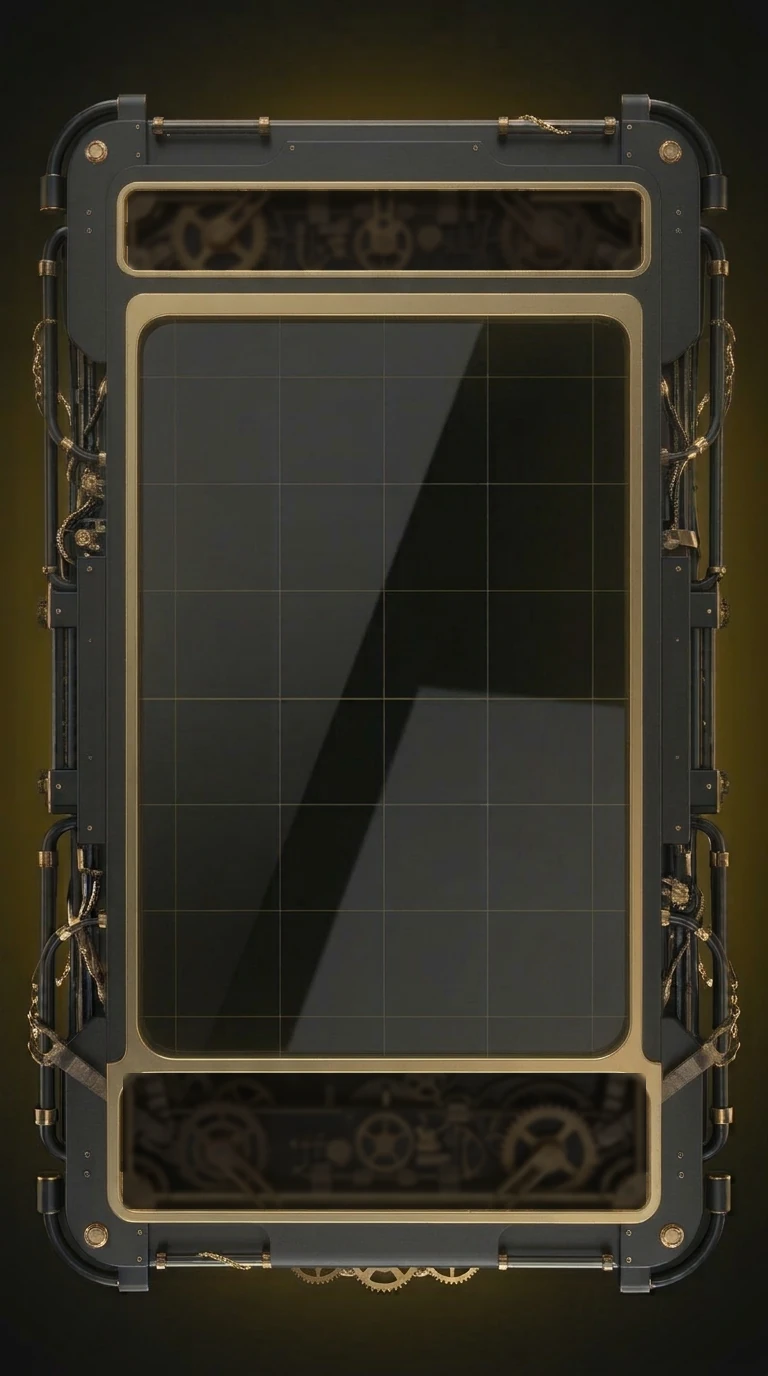
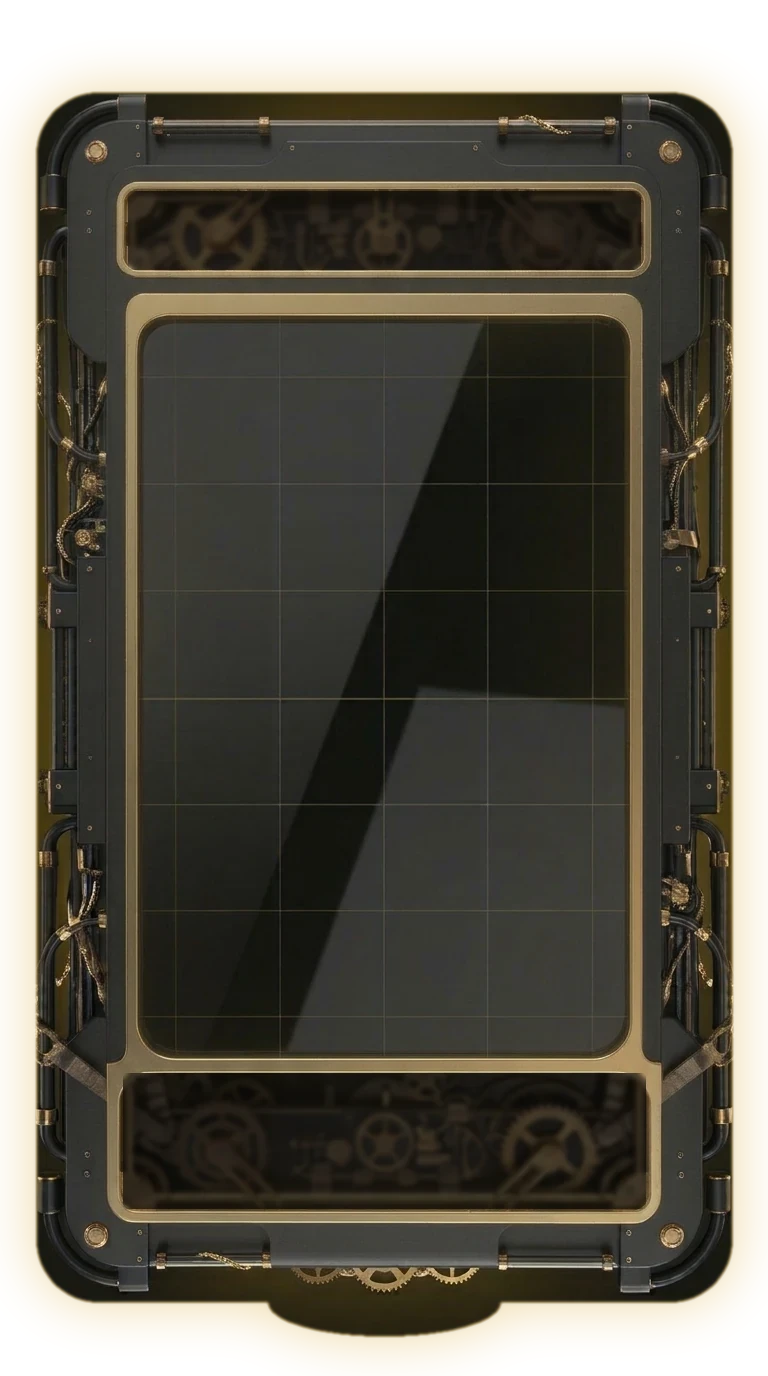
Kevin Pong: pozadí hry na výběr – tma (dosavadní) nebo 6 obrázků od uživatele (Gemini, kreslený styl): noční město, západ slunce, kouzelný les, vesmír, polární záře, ganja údolí (kevin/pong/pozadi-*.webp + mini náhledy). Výběr v menu hry (sekce POZADÍ, kulaté náhledy, localStorage kevinPongBg, texty

Changed region(s): [[0.0, 0.0, 1.0, 1.0]]

diff --git a/src/main/webapp/js/kevin-pong.js b/src/main/webapp/js/kevin-pong.js
@@ -14,6 +14,9 @@
 // Hlášky a nápisy jdou z reproduktorů na bocích stroje jako z komiksu: nápisy odstřelu (PERFEKTNÍ ODSTŘEL…)
 // vyletí z levého jako zubatá „výbuchová“ bublina, Kevinovy hlášky z pravého jako mluvicí bublina. Kde je
 // vedle stroje volno (PC), letí ven ze stroje, jinak přes kraj stroje dovnitř.
+// Pozadí hry: tma nebo jeden ze 6 obrázků (město, západ slunce, les, vesmír, polární záře, ganja údolí), výběr
+// v menu hry (localStorage kevinPongBg); každé pozadí je živé – plátno .kpong-bgfx (déšť, prach, světlušky,
+// hvězdy s meteorem, sníh, pyl, ve tmě zlaté jiskry). Se „omezit pohyb“ jen obrázek.
 // Kevin dělá lidské chyby: míček „sleduje“ až od části hřiště, s každým odrazem od stěny a s rychlostí se víc splete.
 // Výhra přihlášeného hráče jde do tabulky pořadí (/api/pong: server měří čas od startu, pořadí = nejrychlejší
 // výhra). Nepřihlášenému se nejlepší čas uloží jen v prohlížeči. Texty: KEVIN_LINES[jazyk].pong (kevin-lines.js).
@@ -27,6 +30,7 @@
   var TOP_SLOT = 124, GEARS_KEVIN = [[1, 290.5, 122, 46], [2, 384, 118, 58], [3, 477.5, 122, 46]];
   // okénka s živou mechanikou [x, y, šířka, výška] – nahoře ji pohání Kevinův běh, dole hráčova pálka
   var WIN_TOP = [128, 191, 513, 79], WIN_BOT = [123, 1073, 523, 136];
+  var BGS = ['tma', 'mesto', 'zapad', 'les', 'vesmir', 'zare', 'ganja'];
   // watch = jakou část hřiště (od sebe) Kevin sleduje, err = chyba odhadu (díl šířky), bounceErr = o kolik víc
   // se splete za každý odraz od stěny; chyba se losuje jednou za let míčku (ne pořád dokola – to by se zprůměrovalo)
   var LEVELS = {
@@ -53,6 +57,7 @@
     root.setAttribute('aria-modal', 'true');
     root.setAttribute('aria-label', T.title);
     root.innerHTML =
+      '<div class="kpong-bg" aria-hidden="true"></div><canvas class="kpong-bgfx" aria-hidden="true"></canvas>' +
       '<div class="kpong-box">' +
       '  <div class="kpong-top">' +
       '    <div class="kpong-score" aria-live="polite"><span class="kpong-who">' + esc(T.you) + '</span><b class="kpong-you">0</b><i>:</i><b class="kpong-kev">0</b><span class="kpong-who">Kevin</span></div>' +
@@ -97,6 +102,7 @@
       var cut = { x0: GLASS.x - 62, x1: GLASS.x + GLASS.w + 62, y0: -110, y1: landscape ? 1070 : 1218 };
       var uAll = Math.min(availW / FRAME_W, availH / FRAME_H), uCut = Math.min(availW / (cut.x1 - cut.x0), availH / (cut.y1 - cut.y0));
       var v = uCut > uAll * 1.12 ? cut : all, u = v === cut ? uCut : uAll;
+      machine.classList.toggle('cut', v === cut);
       machine.style.width = Math.floor((v.x1 - v.x0) * u) + 'px';
       machine.style.height = Math.floor((v.y1 - v.y0) * u) + 'px';
       frame.style.setProperty('--u', u);
@@ -121,6 +127,91 @@
         onReady: function () { kevCanvas.classList.add('on'); K.turn(0); }
       });
     }).catch(function () { /* hra jde i bez něj */ });
+
+    // ---------- pozadí a jeho život ----------
+    var bgEl = root.querySelector('.kpong-bg'), fx = root.querySelector('.kpong-bgfx'), fxc = fx.getContext('2d');
+    var bgName = store.get('kevinPongBg'), still = window.matchMedia('(prefers-reduced-motion: reduce)').matches;
+    if (BGS.indexOf(bgName) < 0) bgName = 'tma';
+    var parts = [], fxLast = 0, shoot0 = 0;
+    function setBg(name) {
+      bgName = name; store.set('kevinPongBg', name);
+      root.dataset.bg = name;
+      bgEl.style.backgroundImage = name === 'tma' ? '' : 'url(/kevin/pong/pozadi-' + name + '.webp' + ver + ')';
+      seedFx();
+    }
+    function fxSize() {
+      var dpr = Math.min(1.5, window.devicePixelRatio || 1);
+      fx.width = Math.round(innerWidth * dpr); fx.height = Math.round(innerHeight * dpr);
+      fxc.setTransform(dpr, 0, 0, dpr, 0, 0);
+      seedFx();
+    }
+    function rnd(a, b) { return a + Math.random() * (b - a); }
+    // částice podle pozadí: x, y, velikost, rychlost, fáze
+    function seedFx() {
+      var w = innerWidth, h = innerHeight, n = { tma: 26, mesto: 140, zapad: 46, les: 34, vesmir: 90, zare: 110, ganja: 60 }[bgName] || 0;
+      parts = [];
+      for (var i = 0; i < n; i++) parts.push({ x: rnd(0, w), y: rnd(0, h), s: rnd(0.6, 1.4), v: rnd(0.6, 1.4), p: rnd(0, 6.28) });
+    }
+    function fxTick(now) {
+      if (still) return;
+      var dt = fxLast ? Math.min(0.05, (now - fxLast) / 1000) : 0, w = innerWidth, h = innerHeight, t = now / 1000;
+      fxLast = now;
+      fxc.clearRect(0, 0, w, h);
+      parts.forEach(function (q) {
+        switch (bgName) {
+          case 'mesto':   // déšť šikmo
+            q.y += 820 * q.v * dt; q.x -= 140 * q.v * dt;
+            if (q.y > h) { q.y = -20; q.x = rnd(0, w + 120); }
+            fxc.strokeStyle = 'rgba(190,200,255,' + (0.18 * q.s) + ')'; fxc.lineWidth = q.s;
+            fxc.beginPath(); fxc.moveTo(q.x, q.y); fxc.lineTo(q.x + 3.4 * q.s, q.y - 20 * q.s); fxc.stroke();
+            break;
+          case 'zare':    // sníh s houpáním
+            q.y += 38 * q.v * dt; q.x += Math.sin(t * 0.9 + q.p) * 18 * dt;
+            if (q.y > h) { q.y = -6; q.x = rnd(0, w); }
+            dot(q.x, q.y, 1.6 * q.s, 'rgba(255,255,255,' + (0.55 * q.s) + ')');
+            break;
+          case 'les':     // světlušky: bloudí a pulzují
+            q.x += Math.sin(t * 0.5 * q.v + q.p) * 22 * dt; q.y += Math.cos(t * 0.4 * q.v + q.p * 2) * 18 * dt;
+            glow(q.x, q.y, 9 * q.s, 'rgba(210,255,120,', 0.25 + 0.55 * Math.max(0, Math.sin(t * 1.6 * q.v + q.p)));
+            break;
+          case 'vesmir':  // blikající hvězdy
+            dot(q.x, q.y, 1.1 * q.s, 'rgba(255,255,255,' + (0.25 + 0.6 * Math.abs(Math.sin(t * 1.3 * q.v + q.p))) + ')');
+            break;
+          case 'zapad':   // teplý prach stoupá
+          case 'tma':     // zlaté jiskry
+            q.y -= 16 * q.v * dt; q.x += Math.sin(t * 0.6 + q.p) * 8 * dt;
+            if (q.y < -10) { q.y = h + 10; q.x = rnd(0, w); }
+            glow(q.x, q.y, 4 * q.s, bgName === 'tma' ? 'rgba(255,200,80,' : 'rgba(255,190,120,', 0.35 + 0.35 * Math.sin(t * 2 * q.v + q.p));
+            break;
+          case 'ganja':   // pyl se vznáší do stran
+            q.x += (14 + 10 * Math.sin(t * 0.7 + q.p)) * q.v * dt; q.y += Math.sin(t * 1.1 + q.p) * 10 * dt;
+            if (q.x > w + 10) { q.x = -10; q.y = rnd(0, h); }
+            glow(q.x, q.y, 3.5 * q.s, 'rgba(255,245,170,', 0.45);
+            break;
+        }
+      });
+      // vesmír: občas meteor
+      if (bgName === 'vesmir') {
+        if (!shoot0 || now - shoot0 > 7000) shoot0 = now + rnd(0, 3000);
+        var k = (now - shoot0) / 900;
+        if (k > 0 && k < 1) {
+          var x0 = w * 0.85, y0 = h * 0.08, x1 = x0 - w * 0.45 * k, y1 = y0 + h * 0.3 * k;
+          var g = fxc.createLinearGradient(x1, y1, x1 + 120, y1 - 80);
+          g.addColorStop(0, 'rgba(255,255,255,' + (1 - k) + ')'); g.addColorStop(1, 'rgba(255,255,255,0)');
+          fxc.strokeStyle = g; fxc.lineWidth = 2; fxc.beginPath(); fxc.moveTo(x1, y1); fxc.lineTo(x1 + 120, y1 - 80); fxc.stroke();
+        }
+      }
+    }
+    function dot(x, y, r, c) { fxc.fillStyle = c; fxc.beginPath(); fxc.arc(x, y, r, 0, 7); fxc.fill(); }
+    function glow(x, y, r, c, a) {
+      if (a <= 0) return;
+      var g = fxc.createRadialGradient(x, y, 0, x, y, r);
+      g.addColorStop(0, c + a + ')'); g.addColorStop(1, c + '0)');
+      fxc.fillStyle = g; fxc.beginPath(); fxc.arc(x, y, r, 0, 7); fxc.fill();
+    }
+
+    fxSize(); addEventListener('resize', fxSize);
+    setBg(bgName);
 
     // ---------- komiksové bubliny z reproduktorů ----------
     // jedna bublina na reproduktor (nová nahradí starou); zubatý obrys výbuchu je pokaždé trochu jiný (ručně kreslený)
@@ -530,6 +621,11 @@
         }).join('') + '</div></section>' +
         '<button type="button" class="kpong-play btn-primary"><i class="fa-solid fa-play" aria-hidden="true"></i> ' + esc(T.play) + '</button>' +
         '<section class="kp-sec"><h3 class="kp-label">' + esc(T.controlsTitle || '') + '</h3>' + controls + '</section>' +
+        '<section class="kp-sec"><h3 class="kp-label">' + esc(T.bgTitle || '') + '</h3><div class="kp-bgs" role="radiogroup" aria-label="' + esc(T.bgTitle || '') + '">' +
+        BGS.map(function (b, i) {
+          return '<button type="button" role="radio" class="kp-bgopt" data-bg="' + b + '" aria-checked="' + (b === bgName) + '" title="' + esc((T.bgs || BGS)[i]) + '" aria-label="' + esc((T.bgs || BGS)[i]) + '"' +
+            (b === 'tma' ? '' : ' style="background-image:url(/kevin/pong/pozadi-' + b + '-mini.webp' + ver + ')"') + '></button>';
+        }).join('') + '</div></section>' +
         '<section class="kp-sec kpong-board"></section>';
       panel.querySelectorAll('.kpong-level').forEach(function (b) {
         b.addEventListener('click', function () {
@@ -539,6 +635,12 @@
         });
       });
       panel.querySelector('.kpong-play').addEventListener('click', begin);
+      panel.querySelectorAll('.kp-bgopt').forEach(function (b) {
+        b.addEventListener('click', function () {
+          setBg(b.dataset.bg);
+          panel.querySelectorAll('.kp-bgopt').forEach(function (x) { x.setAttribute('aria-checked', String(x === b)); });
+        });
+      });
       board(level);
       say(pick(T.hello), 3000);
     }
@@ -592,7 +694,7 @@
 
     // ---------- kreslení hřiště ----------
     function draw(now) {
-      mechTick(now);
+      mechTick(now); fxTick(now);
       var light = false;   // hřiště je tmavé sklo stroje i ve světlém režimu
       cx.clearRect(0, 0, W, H);
       rail(KEVIN_Y, kevin.x); rail(PLAYER_Y, player.x);
@@ -706,7 +808,7 @@
       cancelAnimationFrame(raf);
       document.removeEventListener('keydown', onKey); document.removeEventListener('keyup', onKey);
       document.removeEventListener('visibilitychange', onHidden);
-      removeEventListener('resize', fit);
+      removeEventListener('resize', fit); removeEventListener('resize', fxSize);
       document.removeEventListener('fullscreenchange', onFull); document.removeEventListener('webkitfullscreenchange', onFull);
       if (isFull()) { var ex = (document.exitFullscreen || document.webkitExitFullscreen).call(document); if (ex && ex.catch) ex.catch(function () {}); }
       Object.keys(comicTimers).forEach(function (k) { clearTimeout(comicTimers[k]); });

diff --git a/src/main/webapp/js/kevin-lines.js b/src/main/webapp/js/kevin-lines.js
@@ -2244,6 +2244,7 @@ window.KEVIN_LINES = {
       level: "Obtížnost", levels: ["Lehká", "Normální", "Kevin naštvaný"], levelHints: ["na rozehřátí", "fér souboj", "skoro nehratelné"],
       play: "Hrát", help: "Pálku ovládáš prstem, myší nebo šipkami. ODSTŘEL = klik, mezerník, tlačítko ⚡ nebo druhý prst – klikni, když je míček u pálky, a vystřelí rychleji. P = pauza, Esc = konec.",
       mosquito: { pause: ["⏸ Moment. Komár.", "⏸ Pauza. Mám práci.", "⏸ Stop! Vetřelec."], after: ["Nic jsi neviděl. Hraj.", "Kde jsme to byli?", "Lovec se nikdy nenudí.", "To byla jen rozcvička. Pokračujem."] },
+      bgTitle: "Pozadí", bgs: ["Tma", "Noční město", "Západ slunce", "Kouzelný les", "Vesmír", "Polární záře", "Ganja údolí"],
       controlsTitle: "Ovládání", controls: [["Pálka", "prst · myš · ← →"], ["Odstřel", "klik · mezerník · ⚡"], ["Pauza · konec", "P · Esc"]],
       shotHint: "Odstřel: klikni přesně ve chvíli, kdy je hopík u pálky.",
       shot: "Odstřel", shots: { perfect: "PERFEKTNÍ ODSTŘEL", super: "SUPER ODSTŘEL", good: "ODSTŘEL", weak: "slabý odstřel", miss: "pokažený odstřel" },
@@ -2263,6 +2264,7 @@ window.KEVIN_LINES = {
       level: "Difficulty", levels: ["Easy", "Normal", "Angry Kevin"], levelHints: ["warm-up", "fair fight", "nearly impossible"],
       play: "Play", help: "Move your paddle with your finger, the mouse or the arrow keys. POWER SHOT = click, Space, the ⚡ button or a second finger – hit it just as the ball reaches your paddle and it flies faster. P = pause, Esc = quit.",
       mosquito: { pause: ["⏸ Hold on. Mosquito.", "⏸ Pause. I'm busy.", "⏸ Stop! Intruder."], after: ["You saw nothing. Play.", "Where were we?", "A hunter never gets bored.", "Just a warm-up. Go on."] },
+      bgTitle: "Background", bgs: ["Darkness", "Night city", "Sunset", "Magic forest", "Space", "Northern lights", "Ganja valley"],
       controlsTitle: "Controls", controls: [["Paddle", "finger · mouse · ← →"], ["Power shot", "click · Space · ⚡"], ["Pause · quit", "P · Esc"]],
       shotHint: "Power shot: click just as the ball reaches your paddle.",
       shot: "Power shot", shots: { perfect: "PERFECT SHOT", super: "SUPER SHOT", good: "POWER SHOT", weak: "weak shot", miss: "mistimed shot" },
@@ -2282,6 +2284,7 @@ window.KEVIN_LINES = {
       level: "Schwierigkeit", levels: ["Leicht", "Normal", "Wütender Kevin"], levelHints: ["zum Aufwärmen", "faires Duell", "fast unschlagbar"],
       play: "Spielen", help: "Den Schläger steuerst du mit dem Finger, der Maus oder den Pfeiltasten. SCHMETTERSCHUSS = Klick, Leertaste, die ⚡-Taste oder ein zweiter Finger – genau dann, wenn der Ball am Schläger ist, fliegt er schneller. P = Pause, Esc = Ende.",
       mosquito: { pause: ["⏸ Moment. Mücke.", "⏸ Pause. Ich hab zu tun.", "⏸ Stopp! Eindringling."], after: ["Du hast nichts gesehen. Spiel.", "Wo waren wir?", "Ein Jäger langweilt sich nie.", "Nur zum Aufwärmen. Weiter."] },
+      bgTitle: "Hintergrund", bgs: ["Dunkelheit", "Nachtstadt", "Sonnenuntergang", "Zauberwald", "Weltall", "Polarlicht", "Ganja-Tal"],
       controlsTitle: "Steuerung", controls: [["Schläger", "Finger · Maus · ← →"], ["Schuss", "Klick · Leertaste · ⚡"], ["Pause · Ende", "P · Esc"]],
       shotHint: "Schmetterschuss: klick genau dann, wenn der Ball am Schläger ist.",
       shot: "Schmetterschuss", shots: { perfect: "PERFEKTER SCHUSS", super: "SUPERSCHUSS", good: "SCHMETTERSCHUSS", weak: "schwacher Schuss", miss: "verpatzter Schuss" },
@@ -2301,6 +2304,7 @@ window.KEVIN_LINES = {
       level: "Складність", levels: ["Легка", "Звичайна", "Злий Кевін"], levelHints: ["для розминки", "чесний бій", "майже неможливо"],
       play: "Грати", help: "Ракеткою керуй пальцем, мишею або стрілками. ПОСТРІЛ = клік, пробіл, кнопка ⚡ або другий палець – натисни, коли м’ячик біля ракетки, і він полетить швидше. P = пауза, Esc = вихід.",
       mosquito: { pause: ["⏸ Хвилинку. Комар.", "⏸ Пауза. Я зайнятий.", "⏸ Стоп! Загарбник."], after: ["Ти нічого не бачив. Грай.", "На чому ми зупинилися?", "Мисливцю ніколи не нудно.", "Це була розминка. Далі."] },
+      bgTitle: "Фон", bgs: ["Темрява", "Нічне місто", "Захід сонця", "Чарівний ліс", "Космос", "Полярне сяйво", "Долина ґанджі"],
       controlsTitle: "Керування", controls: [["Ракетка", "палець · миша · ← →"], ["Постріл", "клік · пробіл · ⚡"], ["Пауза · вихід", "P · Esc"]],
       shotHint: "Постріл: натисни саме тоді, коли м’ячик біля ракетки.",
       shot: "Постріл", shots: { perfect: "ІДЕАЛЬНИЙ ПОСТРІЛ", super: "СУПЕРПОСТРІЛ", good: "ПОСТРІЛ", weak: "слабкий постріл", miss: "невдалий постріл" },
@@ -2320,6 +2324,7 @@ window.KEVIN_LINES = {
       level: "Độ khó", levels: ["Dễ", "Thường", "Kevin nổi giận"], levelHints: ["khởi động", "đấu sòng phẳng", "gần như không thể"],
       play: "Chơi", help: "Điều khiển vợt bằng ngón tay, chuột hoặc phím mũi tên. CÚ BẮN = nhấp chuột, Space, nút ⚡ hoặc ngón tay thứ hai – bấm đúng lúc bóng chạm vợt, bóng sẽ bay nhanh hơn. P = tạm dừng, Esc = thoát.",
       mosquito: { pause: ["⏸ Khoan. Có muỗi.", "⏸ Tạm dừng. Tôi bận.", "⏸ Dừng! Kẻ xâm nhập."], after: ["Bạn không thấy gì cả. Chơi tiếp.", "Chúng ta đang ở đâu nhỉ?", "Thợ săn không bao giờ chán.", "Chỉ là khởi động. Tiếp nào."] },
+      bgTitle: "Hình nền", bgs: ["Bóng tối", "Thành phố đêm", "Hoàng hôn", "Rừng phép thuật", "Vũ trụ", "Cực quang", "Thung lũng ganja"],
       controlsTitle: "Điều khiển", controls: [["Vợt", "ngón tay · chuột · ← →"], ["Cú bắn", "nhấp · Space · ⚡"], ["Tạm dừng · thoát", "P · Esc"]],
       shotHint: "Cú bắn: bấm đúng lúc bóng chạm vợt.",
       shot: "Cú bắn", shots: { perfect: "CÚ BẮN HOÀN HẢO", super: "SIÊU CÚ BẮN", good: "CÚ BẮN", weak: "cú bắn yếu", miss: "cú bắn hỏng" },

diff --git a/src/main/webapp/css/effects.css b/src/main/webapp/css/effects.css
@@ -1489,6 +1489,9 @@ html.kpong-open #sp-min, html.kpong-open .sp-bar, html.kpong-open .kevin, html.k
 @media (orientation: landscape) and (max-height: 500px) { .kpong .kpong-box { width: auto; } }
 .kpong-machine {
   position: relative; overflow: hidden; align-self: center; flex: none;
+}
+/* oříznutý stroj (telefon): okraje ořezu se rozplývají */
+.kpong-machine.cut {
   -webkit-mask: linear-gradient(90deg, transparent, #000 5%, #000 95%, transparent), linear-gradient(#000 93%, transparent);
   -webkit-mask-composite: source-in;
   mask: linear-gradient(90deg, transparent, #000 5%, #000 95%, transparent), linear-gradient(#000 93%, transparent);
@@ -1661,6 +1664,23 @@ body.light .kpong > .kpong-panel { background: linear-gradient(180deg, rgba(26, 
 .kpong-full[hidden] { display: none; }
 .kpong-full:hover, .kpong-full:focus-visible { border-color: var(--accent); color: var(--accent); }
 .kpong:fullscreen { background: #050403; }
+/* pozadí hry: obrázek přes celé okno, okraje ztmavené (stroj vynikne), nad ním plátno s životem scény */
+.kpong-bg, .kpong-bgfx { position: absolute; inset: 0; width: 100%; height: 100%; pointer-events: none; }
+.kpong-bg { background: center / cover no-repeat; transition: background-image .4s; }
+.kpong-bg::after { content: ""; position: absolute; inset: 0; background: radial-gradient(ellipse at 50% 45%, rgba(0, 0, 0, .1) 30%, rgba(0, 0, 0, .55) 100%); }
+.kpong[data-bg="tma"] .kpong-bg::after { display: none; }
+.kpong > .kpong-box { position: relative; z-index: 1; }
+.kpong > .kpong-panel { z-index: 5; }
+/* výběr pozadí v menu: kulaté náhledy, vybraný se zlatým kroužkem */
+.kp-bgs { display: flex; flex-wrap: wrap; justify-content: center; gap: 8px; }
+.kp-bgopt {
+  width: 44px; height: 44px; border-radius: 50%; padding: 0; cursor: pointer;
+  border: 2px solid rgba(255, 255, 255, .18); background: #050403 center / cover no-repeat;
+  box-shadow: inset 0 0 0 2px rgba(0, 0, 0, .4);
+}
+.kp-bgopt[data-bg="tma"] { background: radial-gradient(circle, rgba(230, 183, 48, .45), #050403 70%); }
+.kp-bgopt[aria-checked="true"] { border-color: var(--accent); box-shadow: 0 0 0 3px rgba(255, 210, 63, .3); }
+.kp-bgopt:hover, .kp-bgopt:focus-visible { border-color: var(--accent); }
 /* skóre písmem, kde nula nevypadá jako O */
 .kpong-score b { font-family: var(--font-text); font-weight: 600; }
 
